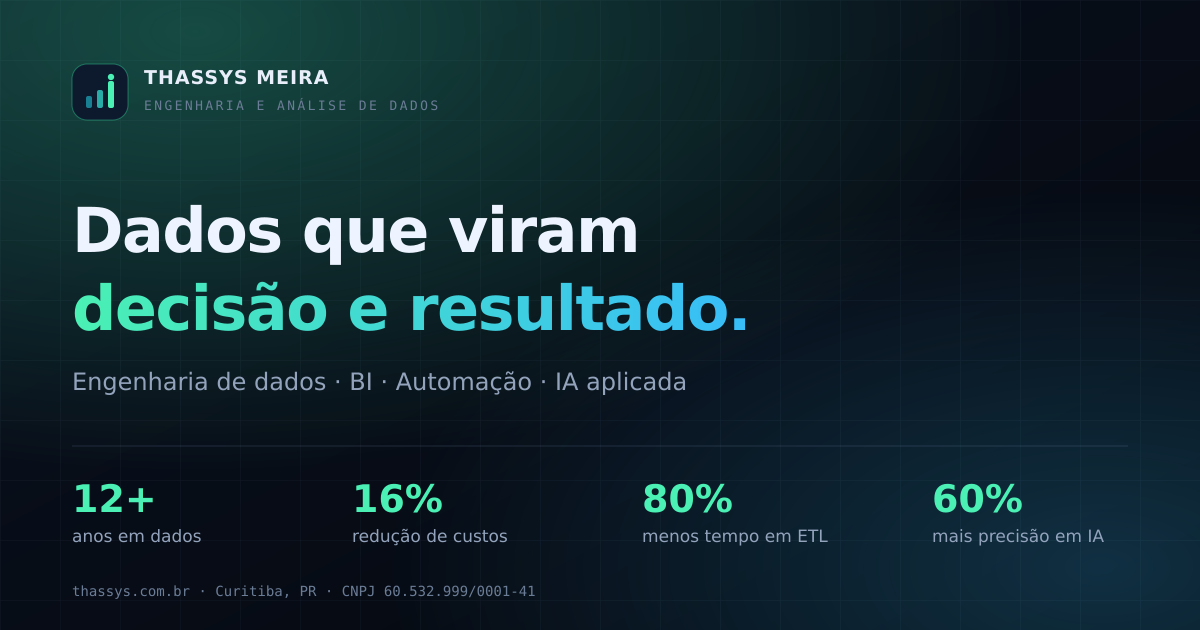
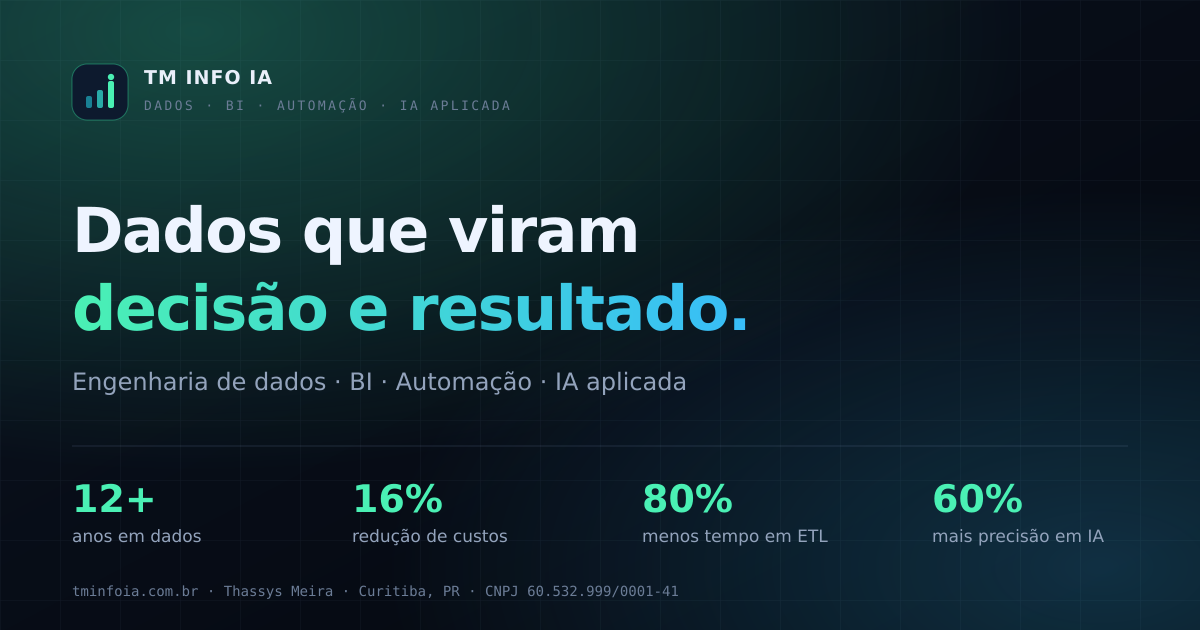
Rebranding: TM Info IA no lugar do nome pessoal na capa

Changed region(s): [[0.1233, 0.0905, 0.4317, 0.181], [0.185, 0.9349, 0.555, 0.9651], [0.0617, 0.9349, 0.1542, 0.9651]]

diff --git a/src/styles/global.css b/src/styles/global.css
@@ -404,6 +404,41 @@ p {
   align-items: center;
 }
 
+.hero-brand {
+  display: flex;
+  align-items: center;
+  flex-wrap: wrap;
+  gap: 12px 14px;
+}
+
+.hero-brand-mark {
+  width: 44px;
+  height: 44px;
+  flex: none;
+  display: grid;
+  place-items: center;
+  border-radius: 13px;
+  font-family: var(--font-display);
+  font-weight: 700;
+  font-size: 15px;
+  letter-spacing: 0.03em;
+  color: var(--accent);
+  background: linear-gradient(135deg, rgba(53, 224, 161, 0.2), rgba(56, 189, 248, 0.1));
+  border: 1px solid rgba(53, 224, 161, 0.4);
+  box-shadow: inset 0 1px 0 rgba(255, 255, 255, 0.1), 0 10px 30px -14px rgba(53, 224, 161, 0.7);
+}
+
+.hero-brand-name {
+  font-family: var(--font-display);
+  font-size: 22px;
+  font-weight: 600;
+  letter-spacing: 0.01em;
+}
+
+.hero-brand .status-pill {
+  margin-left: auto;
+}
+
 .status-pill {
   display: inline-flex;
   align-items: center;
@@ -1551,6 +1586,10 @@ p {
 
   .brand-role {
     display: none;
+  }
+
+  .hero-brand .status-pill {
+    margin-left: 0;
   }
 
   .hero {

diff --git a/src/data/site.ts b/src/data/site.ts
@@ -1,5 +1,7 @@
 // Todo o conteúdo do site fica aqui — edite este arquivo para atualizar textos.
 export const profile = {
+  brand: 'TM Info IA',
+  brandTagline: 'Dados · BI · Automação · IA',
   name: 'Thassys Meira',
   role: 'Engenheiro & Analista de Dados',
   city: 'Curitiba, PR',

diff --git a/README.md b/README.md
@@ -1,4 +1,4 @@
-# Site — Thassys Meira
+# TM Info IA — site institucional
 
 Cartão de visita profissional (one-page) em [Astro](https://astro.build). 100% estático,
 sem banco de dados e sem custo de servidor. O build gera a pasta `dist/`, que roda em
@@ -33,7 +33,7 @@ O plano gratuito do Cloudflare Pages permite uso comercial e não cobra tráfego
 O plano Hobby do Vercel é **apenas para uso pessoal/não comercial** — como o site é da
 sua empresa (CNPJ), no Vercel seria necessário o plano Pro (US$ 20/mês).
 
-1. Crie um repositório no GitHub e envie este projeto.
+1. O repositório já está criado: <https://github.com/thassysm/thassys-site>.
 2. Em <https://dash.cloudflare.com> → **Workers & Pages** → **Create** → **Pages** →
    **Connect to Git**.
 3. Selecione o repositório e configure:
@@ -41,7 +41,7 @@ sua empresa (CNPJ), no Vercel seria necessário o plano Pro (US$ 20/mês).
    - Build command: `npm run build`
    - Output directory: `dist`
    - Variável de ambiente: `NODE_VERSION` = `22.23.4` (Astro 7 exige Node ≥ 22.23.4)
-4. Em **Custom domains**, adicione `thassys.com.br` e `www.thassys.com.br`.
+4. Em **Custom domains**, adicione `tminfoia.com.br` e `www.tminfoia.com.br`.
 5. Se o domínio estiver cadastrado no Cloudflare (nameservers apontando para ele),
    o DNS e o certificado SSL são criados automaticamente.
 
@@ -71,7 +71,7 @@ Cada novo deploy é só repetir `npm run build && npx wrangler pages deploy dist
 ## Domínio
 
 - **Registro.br** (`.com.br`): R$ 40/ano, registro com CPF ou CNPJ. Recomendado:
-  `thassys.com.br` (verificado como disponível em nov/2026).
+  `tminfoia.com.br` (verificado como disponível em nov/2026).
 - Alternativas internacionais: `.dev` / `.com` em Cloudflare Registrar, Namecheap ou
   Porkbun (US$ 10–15/ano).
 - **Não hospede o site na sua máquina** para acesso público: IP residencial dinâmico,
